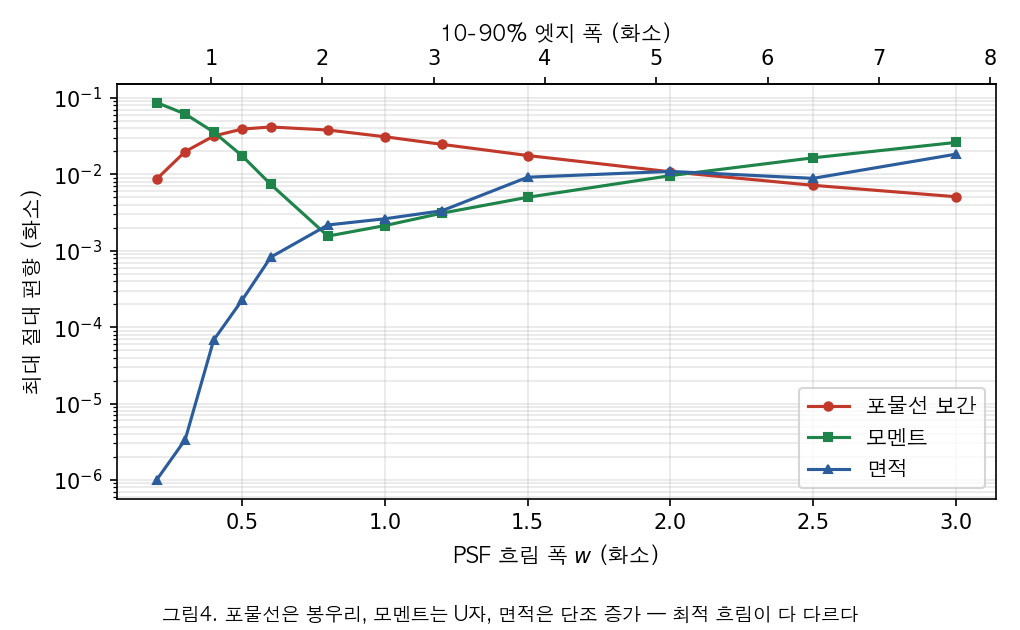
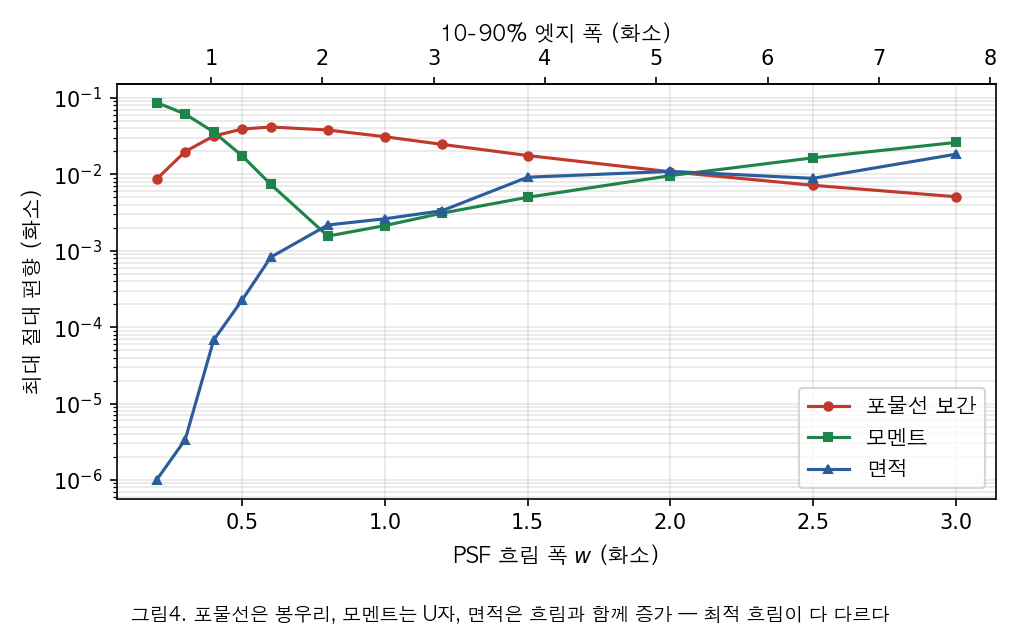
fix(post): imgproc-edge-subpixel — 면적법 산포 비례, 산포·편향 순서, 흐림 규칙의 방법 의존 등 10건 정정
- 면적법 산포는 창 길이의 제곱근이 아니라 거의 창 길이에 비례해 커진다. 글 자신의
  수치(창 8→64에 산포 0.0074→0.1015, 13.7배; √8=2.83배), n=16~64 로그 기울기 1.12,
  독립 오차 전파로 확인했다. 평탄부 노이즈가 정규화로 곱해지는 몫이 지배한다.
  본문 세 곳, 그림5 기준선(√n → n), 코드 주석 2곳.
- 산포 순서가 편향 순서와 "정확히 뒤집혀" 있지 않다. w=1.0에서 순서가 같고,
  뒤바뀌는 것은 w≤0.6의 면적–모멘트 쌍뿐이다(코드 출력, 독립 계산).
- "덜 흐리게 찍으면 격자 편향을 얻는다"는 모멘트법에만 맞는다. 포물선은 w=0.6이
  최악이고 w=0.2에서 0.009로 더 작다(그림4 수치).
- 엣지 폭 2~3화소에서 차이가 작아지는 것은 모멘트·면적(0.002 안팎)이고, 포물선은
  0.025~0.038이 남는다.
- 모멘트법 가정이 깨지는 원인을 한·영이 다르게 적었다. 흐림과 화소 적분 둘 다다.
- 선명한 엣지에서 포물선 편향이 작은 이유는 w→0에서 세 기울기 점이 선형으로
  움직여 꼭짓점이 정확해지기 때문이다(해석 계산).
- 그림4 캡션 "면적은 단조 증가": w=2.0→2.5에서 줄어든다. "흐림과 함께 증가".
- 반대 방향 엣지 쌍에서 면적법은 발산하고 모멘트법은 두 엣지 밖의 값을 낸다.
- "2편과 3편에서 쓴 3점 포물선": 3편은 9점(HALF=4) 2차 최소제곱 맞춤이다.
- "2편 4절에서 미분이 노이즈를 키웠다": 2편 4절은 노이즈 표준편차를 0.707배로
  줄이되 신호 대비 잡음비를 떨어뜨린다고 썼다. 그 문구에 맞췄다.

바뀐 그림: fig5-noise-scatter.png(한·영), fig4-bias-vs-blur.png(한국어만)

Changed region(s): [[0.1216, 0.9651, 0.8814, 0.9952]]

diff --git a/_code/imgproc-edge-subpixel/generate_figures.py b/_code/imgproc-edge-subpixel/generate_figures.py
@@ -36,10 +36,10 @@ LABELS = {
         "fig3": "그림3. 포물선 보간의 편향은 화소 격자를 따라 되풀이된다",
         "blur_ax": r"PSF 흐림 폭 $w$ (화소)", "maxbias": "최대 절대 편향 (화소)",
         "w10": "10-90% 엣지 폭 (화소)",
-        "fig4": "그림4. 포물선은 봉우리, 모멘트는 U자, 면적은 단조 증가 — 최적 흐림이 다 다르다",
+        "fig4": "그림4. 포물선은 봉우리, 모멘트는 U자, 면적은 흐림과 함께 증가 — 최적 흐림이 다 다르다",
         "noise_ax": "노이즈 (DN)", "scatter": "추정 위치 표준편차 (화소)",
         "winlen": "면적법의 창 길이 (화소)", "wb": "편향 (창을 자르지 않았을 때)",
-        "ws": r"산포 (노이즈 5 DN)", "sqrtn": r"$\sqrt{n}$ 기준선",
+        "ws": r"산포 (노이즈 5 DN)", "nref": r"$n$ 기준선",
         "fig5": "그림5. 편향이 작은 방법이 산포는 크고, 면적법의 창 길이는 그 안의 또 다른 교환이다",
         "rmse": "총 오차 RMSE (화소)", "winner": "가장 작은 총 오차를 내는 방법",
         "fig6": "그림6. 흐림 폭과 노이즈가 승자를 바꾼다",
@@ -60,7 +60,7 @@ LABELS = {
         "fig4": "Fig 4. A peak, a U and a rise — each method has its own optimal blur",
         "noise_ax": "Noise (DN)", "scatter": "Std of estimated position (pixel)",
         "winlen": "Window length of the area method (pixel)", "wb": "Bias (uncropped window)",
-        "ws": r"Scatter (noise 5 DN)", "sqrtn": r"$\sqrt{n}$ reference",
+        "ws": r"Scatter (noise 5 DN)", "nref": r"$n$ reference",
         "fig5": "Fig 5. Smaller bias comes with larger scatter, and the area window is a trade of its own",
         "rmse": "Total error RMSE (pixel)", "winner": "Method with the smallest total error",
         "fig6": "Fig 6. Blur width and noise change the winner",
@@ -119,7 +119,7 @@ for nz in NOISE_GRID:
         scatter[k].append(est[k].std())
 scatter = {k: np.array(v) for k, v in scatter.items()}
 
-# 면적법의 창 길이 의존성. 산포는 창 길이의 제곱근을 따라 커지고, 창이 너무 짧으면
+# 면적법의 창 길이 의존성. 산포는 창 길이에 거의 비례해 커지고, 창이 너무 짧으면
 # 평탄부를 잘못 잡아 편향이 폭발한다. 두 곡선이 만나는 곳이 실용적인 창 길이다.
 WIN_LENS = np.array([6, 8, 10, 12, 16, 20, 24, 32, 40, 52, 64])
 rngw = np.random.default_rng(7)
@@ -245,8 +245,8 @@ def draw(L):
                  color="#c0392b", label=L["wb"])
     ax[1].loglog(WIN_LENS, np.maximum(win_std, 5e-5), "^-", ms=4,
                  color=COLORS["area"], label=L["ws"])
-    ref = win_std[4] * np.sqrt(WIN_LENS / WIN_LENS[4])
-    ax[1].loglog(WIN_LENS, ref, ":", lw=1.2, color="#555", label=L["sqrtn"])
+    ref = win_std[4] * (WIN_LENS / WIN_LENS[4])
+    ax[1].loglog(WIN_LENS, ref, ":", lw=1.2, color="#555", label=L["nref"])
     ax[1].set_ylim(3e-5, 3.0)
     ax[1].set_xlabel(L["winlen"], **F)
     ax[1].legend(prop=LG, fontsize=8.5); ax[1].grid(alpha=0.3, which="both")

diff --git a/_code/imgproc-edge-subpixel/subpixel.py b/_code/imgproc-edge-subpixel/subpixel.py
@@ -57,7 +57,7 @@ def moment_tabatabai(profile, window=None):
 def transition_window(profile, rel=0.05, margin=3):
     """기울기가 최댓값의 rel 배 위로 올라오는 구간에 여유를 붙여 창을 정한다.
 
-    면적법의 산포는 창 길이의 제곱근에 비례해 커진다. 평탄부까지 통째로 넣으면
+    면적법의 산포는 창 길이에 거의 비례해 커진다. 평탄부까지 통째로 넣으면
     엣지와 무관한 화소의 노이즈만 쌓이므로, 전이 구간에 바짝 맞춘 창이 필요하다.
     반대로 창이 너무 짧으면 평탄부를 잘못 잡아 큰 편향이 생긴다.
     """

diff --git a/_posts/2026-10-20-imgproc-edge-subpixel-en.md b/_posts/2026-10-20-imgproc-edge-subpixel-en.md
@@ -37,7 +37,7 @@ Why is there more than one way to extract a single position from the same profil
 <img src="/assets/img/posts/imgproc-edge-subpixel/en/fig2-three-families.png" alt="What the parabola, moment and area methods read from the same profile" width="750">
 _Fig 2. The three families read different things from the same profile_
 
-The interpolation family fits a parabola to the peak of the gradient magnitude and takes its vertex. Using only three samples, it is the cheapest, and it is what Posts 2 and 3 used. Its assumption is that the peak is a parabola.
+The interpolation family fits a parabola to the peak of the gradient magnitude and takes its vertex. Using only three samples, it is the cheapest, and it is what Post 2 used. Post 3 found the vertex by fitting a quadratic to nine samples. Its assumption is that the peak is a parabola.
 
 The moment family inverts the first three moments of the intensity within a window to recover the position of a step. Tabatabai and Mitchell proposed it in 1984. Assuming the window holds one ideal step with the low side occupying a fraction $p$, the three moments give $p$ in closed form.
 
@@ -67,24 +67,24 @@ The error of parabolic interpolation traces a smooth S-curve with a period of on
 
 This is pixel locking: the estimate is pulled toward grid positions. It is dangerous in metrology because it is not random error. The same edge measured repeatedly is wrong by the same amount in the same direction, so frame averaging leaves it untouched. The worse case is measuring many edges whose grid phases happen to be spread evenly. The systematic bias then masquerades as scatter, and the result looks imprecise but accurate when it is neither.
 
-The moment method is not immune. At $w = 0.4$ its bias reaches $0.036$ pixels, comparable in size to the parabola but opposite in phase. Pixel integration breaks its assumption of an ideal step, and the way it breaks depends on the grid phase. It does fall away quickly as blur grows.
+The moment method is not immune. At $w = 0.4$ its bias reaches $0.036$ pixels, comparable in size to the parabola but opposite in phase. The intermediate values produced by blur and pixel integration break its assumption of an ideal two-level step, and the way it breaks depends on the grid phase. It does fall away quickly as blur grows.
 
 The area curve lies almost flat at zero for $w = 0.4$ and $0.6$, since it assumes nothing beyond symmetry and is therefore indifferent to grid phase. In the $w = 2.0$ panel, however, it swings by $\pm0.011$ pixels. That is not a property of the method but of cropping the window to the transition, whose cost section 5 treats separately. The small steps visible in the curve mark where the window length changes by a whole pixel.
 
 ## 4. The blur width that minimizes bias
 
-How does the bias depend on blur width, then? A sharper edge feels like it should be easier to locate. It is not.
+How does the bias depend on blur width, then? A sharper edge feels like it should be easier to locate. The answer depends on the method.
 
 <img src="/assets/img/posts/imgproc-edge-subpixel/en/fig4-bias-vs-blur.png" alt="Maximum absolute bias of the three methods against PSF blur width" width="700">
 _Fig 4. A peak, a U and a rise — each method has its own optimal blur_
 
-Parabolic interpolation is worst at $w = 0.6$ and improves in both directions. With a very sharp edge only two or three samples land on the gradient peak, leaving nothing to fit; with enough blur the peak genuinely approaches a parabola and the assumption holds. The worst case lies between.
+Parabolic interpolation is worst at $w = 0.6$ and improves in both directions. With a very sharp edge, pixel integration and the central difference make the three gradient samples shift linearly with the true position, so the vertex nearly coincides with it (zero bias as $w \to 0$); with enough blur the peak genuinely approaches a parabola and the assumption holds. The worst case lies between.
 
 The moment method traces the opposite shape, a U with its minimum of $0.0016$ pixels at $w = 0.8$. Too sharp and pixel integration breaks the step assumption; too blurred and nothing resembling a step remains inside the window.
 
 The area method stays below $10^{-3}$ pixels for $w \le 0.6$, but its bias grows with blur and reaches $0.011$ pixels at $w = 2.0$. This is not the symmetry assumption failing. It comes from cropping the window to the transition: with the window uncropped, the bias at the same $w = 2.0$ stays at $0.00002$ pixels. As blur grows the tails of the transition lengthen, and estimating $A$ and $B$ at window ends that have not yet reached the plateaus introduces exactly that offset.
 
-A practical rule follows. Capturing the sharpest possible edge is not the best move. Matching the optics and the pixel spacing so that the 10-90% edge width lands at 2 to 3 pixels serves better. Section 6 of Post 1 argued for enough blur to keep content above Nyquist from folding down; subpixel bias points to the same answer. Under-blurring buys aliasing and grid bias together.
+A practical rule follows for the moment method: capturing the sharpest possible edge is not the best move. Matching the optics and the pixel spacing so that the 10-90% edge width lands at 2 to 3 pixels serves better. Section 6 of Post 1 argued for enough blur to keep content above Nyquist from folding down, and the bias of the moment method points to the same answer. Parabolic interpolation, however, is worst near $w = 0.6$ and still leaves $0.025$ to $0.038$ pixels at a 2-to-3-pixel edge width, more than it does on sharper edges ($0.009$ pixels at $w = 0.2$). The blur width has to be chosen together with the method.
 
 ## 5. Smaller bias, larger scatter
 
@@ -93,11 +93,11 @@ If the area method is nearly exact and unbiased, why not simply use it? Because 
 <img src="/assets/img/posts/imgproc-edge-subpixel/en/fig5-noise-scatter.png" alt="Scatter of the three methods against noise, and the window-length dependence of the area method" width="750">
 _Fig 5. Smaller bias comes with larger scatter, and the area window is a trade of its own_
 
-On the left is the scatter of the estimated position at $w = 1.0$ as noise increases. The ordering is exactly the reverse of the bias ordering. At a noise level of 5 DN the moment method is the most stable at $0.0088$ pixels, followed by the area method at $0.0149$ and the parabola at $0.0217$.
+On the left is the scatter of the estimated position at $w = 1.0$ as noise increases. The ordering does not follow the bias ordering: the area method, which had the smallest bias at sharp blur ($w \le 0.6$), scatters more than the moment method here. At a noise level of 5 DN the moment method is the most stable at $0.0088$ pixels, followed by the area method at $0.0149$ and the parabola at $0.0217$.
 
-The reason lies in how many pixels each method uses and how. The moment method forms an average over the whole window, so noise averages down. The parabola uses three gradient samples, and section 4 of Post 2 showed that differentiation has already amplified the noise in them. The area method sums every pixel in the window, so the noise accumulates with the signal.
+The reason lies in how many pixels each method uses and how. The moment method forms an average over the whole window, so noise averages down. The parabola uses three gradient samples, and section 4 of Post 2 showed that differentiation has already degraded their signal-to-noise ratio. The area method sums every pixel in the window and normalizes the sum by plateaus taken from a few end pixels, so the noise accumulates with the window length.
 
-The right panel shows that accumulation directly. The scatter of the area method grows as the square root of the window length $n$, from $0.0074$ at 8 pixels to $0.1015$ at 64. Shortening the window instead lets the transition overflow it, so the plateaus are misjudged and the bias explodes to $0.87$ pixels at 6 pixels. The practical window length is the 12 to 16 pixels where the bias has vanished. The automatic window, which finds the transition and adds a 3-pixel margin, chose a length of 12 at $w = 1.0$ and more than halved the scatter relative to using the full profile.
+The right panel shows that accumulation directly. The scatter of the area method grows faster than the square root of the window length $n$, nearly in proportion to $n$, from $0.0074$ at 8 pixels to $0.1015$ at 64. The plateaus $A$ and $B$ are averages of three pixels at each end, so the noise in those averages enters every term of the sum. Shortening the window instead lets the transition overflow it, so the plateaus are misjudged and the bias explodes to $0.87$ pixels at 6 pixels. The practical window length is the 12 to 16 pixels where the bias has vanished. The automatic window, which finds the transition and adds a 3-pixel margin, chose a length of 12 at $w = 1.0$ and more than halved the scatter relative to using the full profile.
 
 That choice carries the price seen in section 4. The automatic window grows with blur but its 3-pixel margin does not, so the longer the tails of the transition, the further the plateau estimate drifts. Halving the scatter bought a bias of $0.011$ pixels at $w = 2.0$. Scaling the margin with blur width reduces the bias and brings the scatter back.
 
@@ -112,7 +112,7 @@ For $w \ge 0.8$ — a 10-90% edge width beyond 2 pixels — the moment method wi
 
 Sharper edges reverse the order. At $w = 0.3$ to $0.5$ with low noise the area method wins, because this is the range where the moment method's step assumption breaks and its bias climbs to $0.06$ pixels, favouring the unbiased option. At the same $w = 0.3$ with higher noise the parabola wins instead: the area method's scatter grows in proportion to noise, while the parabola holds a small $0.02$ pixel bias on sharp edges and uses few samples.
 
-The practical reading is that the optics come before the method. If the edge width can be set to 2 or 3 pixels, the moment method is the simple choice, and in that regime the three methods barely differ anyway. Where the edge width cannot be arranged, noise level decides between the area method and the parabola.
+The practical reading is that the optics come before the method. If the edge width can be set to 2 or 3 pixels, the moment method is the simple choice, and in that regime the moment and area methods both come down to about $0.002$ pixels of bias. Only parabolic interpolation still leaves a grid bias of about $0.03$ pixels. Where the edge width cannot be arranged, noise level decides between the area method and the parabola.
 
 Section 4.2 of the dissertation contains a case where this matters. To locate the back focal plane of an objective, the imaging system was translated along the optical axis while the focal spot was photographed, and the position of minimum spot diameter was taken as the back focal plane. The diameter was measured by image processing. If grid bias enters that diameter measurement, it distorts the diameter-versus-position curve and shifts the location of the minimum. The result was 78.9 mm from the relay lens and 6.1 mm inside the rear of the objective — numbers that deserve confidence only once the bias of the diameter estimate is known to be smaller than its scatter.
 
@@ -122,7 +122,7 @@ All three methods share one premise: exactly one edge inside the window. The fai
 
 Illumination tilted to one side leaves the plateaus non-flat, and the area method falls first. It takes $A$ and $B$ from the window ends, and if those values ride a gradient the normalization is wrong from the start. The background slope must be removed first, or the window shortened to limit its influence.
 
-Two edges inside one window derail all three. The parabola picks the taller peak, while the moment and area methods return an intermediate average of the two. This arises often when measuring fine lines or narrow grooves, and it calls for a method that models the edge pair together.
+Two edges inside one window derail all three. The parabola picks the taller peak. With two edges of the same direction, the moment and area methods return a value somewhere between them; with an opposite pair, as in a fine line or a narrow groove, the two plateaus coincide, the area method diverges and the moment method returns a value outside both edges. This arises often when measuring fine lines or narrow grooves, and it calls for a method that models the edge pair together.
 
 At the border of an image the window cannot be formed at all. Section 6 of Post 2 argued for shrinking the region of interest by half the kernel width rather than inventing values for the outside, and the same principle applies here.
 
@@ -130,7 +130,7 @@ Two practical failure checks exist. One is to shift the window by a pixel or two
 
 ## Summary and what comes next
 
-Reading a position finer than a pixel means assuming something about the profile, and when that assumption breaks differently at different grid phases, a systematic bias with a period of one pixel appears. Parabolic interpolation is worst near $w = 0.6$ at $0.042$ pixels; the moment method carries a bias of opposite phase that all but vanishes at $w = 0.8$; the area method, assuming only symmetry, is essentially unbiased with an uncropped window at the cost of scatter growing as the square root of the window length, and the reverse once the window is cropped. The ranking of the three shifts with blur and noise, but matching the optics to a 10-90% edge width of 2 to 3 pixels makes the choice itself matter less.
+Reading a position finer than a pixel means assuming something about the profile, and when that assumption breaks differently at different grid phases, a systematic bias with a period of one pixel appears. Parabolic interpolation is worst near $w = 0.6$ at $0.042$ pixels; the moment method carries a bias of opposite phase that all but vanishes at $w = 0.8$; the area method, assuming only symmetry, is essentially unbiased with an uncropped window at the cost of scatter growing nearly in proportion to the window length, and the reverse once the window is cropped. The ranking of the three shifts with blur and noise, but matching the optics to a 10-90% edge width of 2 to 3 pixels makes the choice between the moment and area methods matter less, while the grid bias of parabolic interpolation remains.
 
 The next post turns to geometric fitting. Having obtained the position of one edge point to subpixel precision, the problem becomes extracting a single parameter — a line, a circle — from hundreds of such points. What gets minimized changes the answer, and on short arcs the commonly used algebraic methods carry a pronounced bias. The trade between bias and scatter seen here returns there.
 
